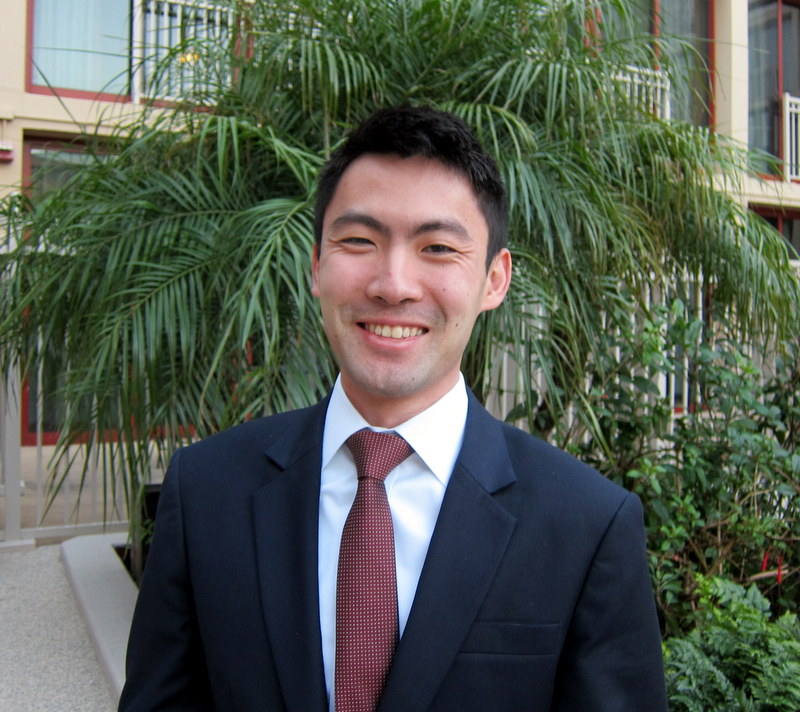
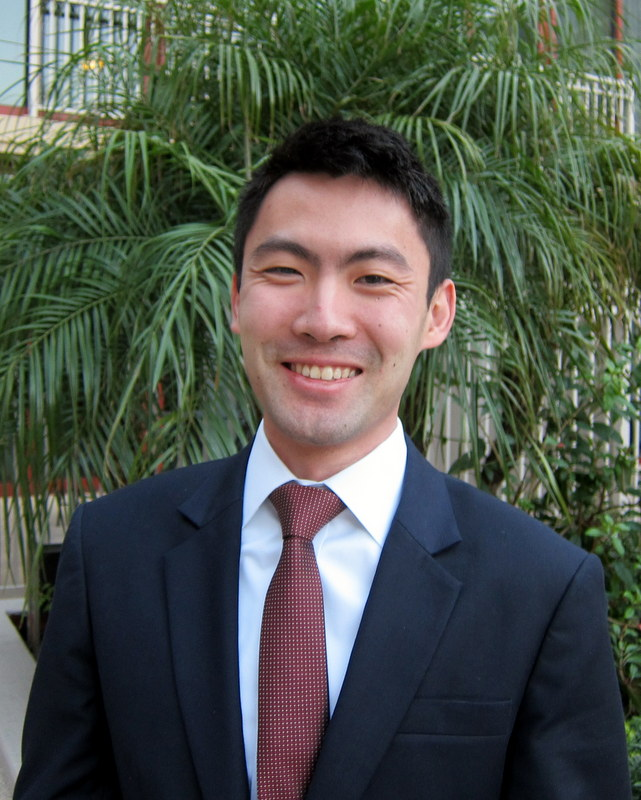
Reformat email address and picture

diff --git a/index.html b/index.html
@@ -46,11 +46,6 @@
 						<p>
 							 I am a Ph.D. Candidate in Finance at the University of Chicago Booth School of Business. My primary research interests are in corporate finance and household finance.
 						</p>
-					</div>
-				</div>
-				<div class="row">
-					<div class="col-sm-12">
-						<br/>
 						<p>
 							<i class="fa fa-envelope-o fa-fw"></i>
 							<a href"mailto:clu0@chicagobooth.edu" target="_blank">
